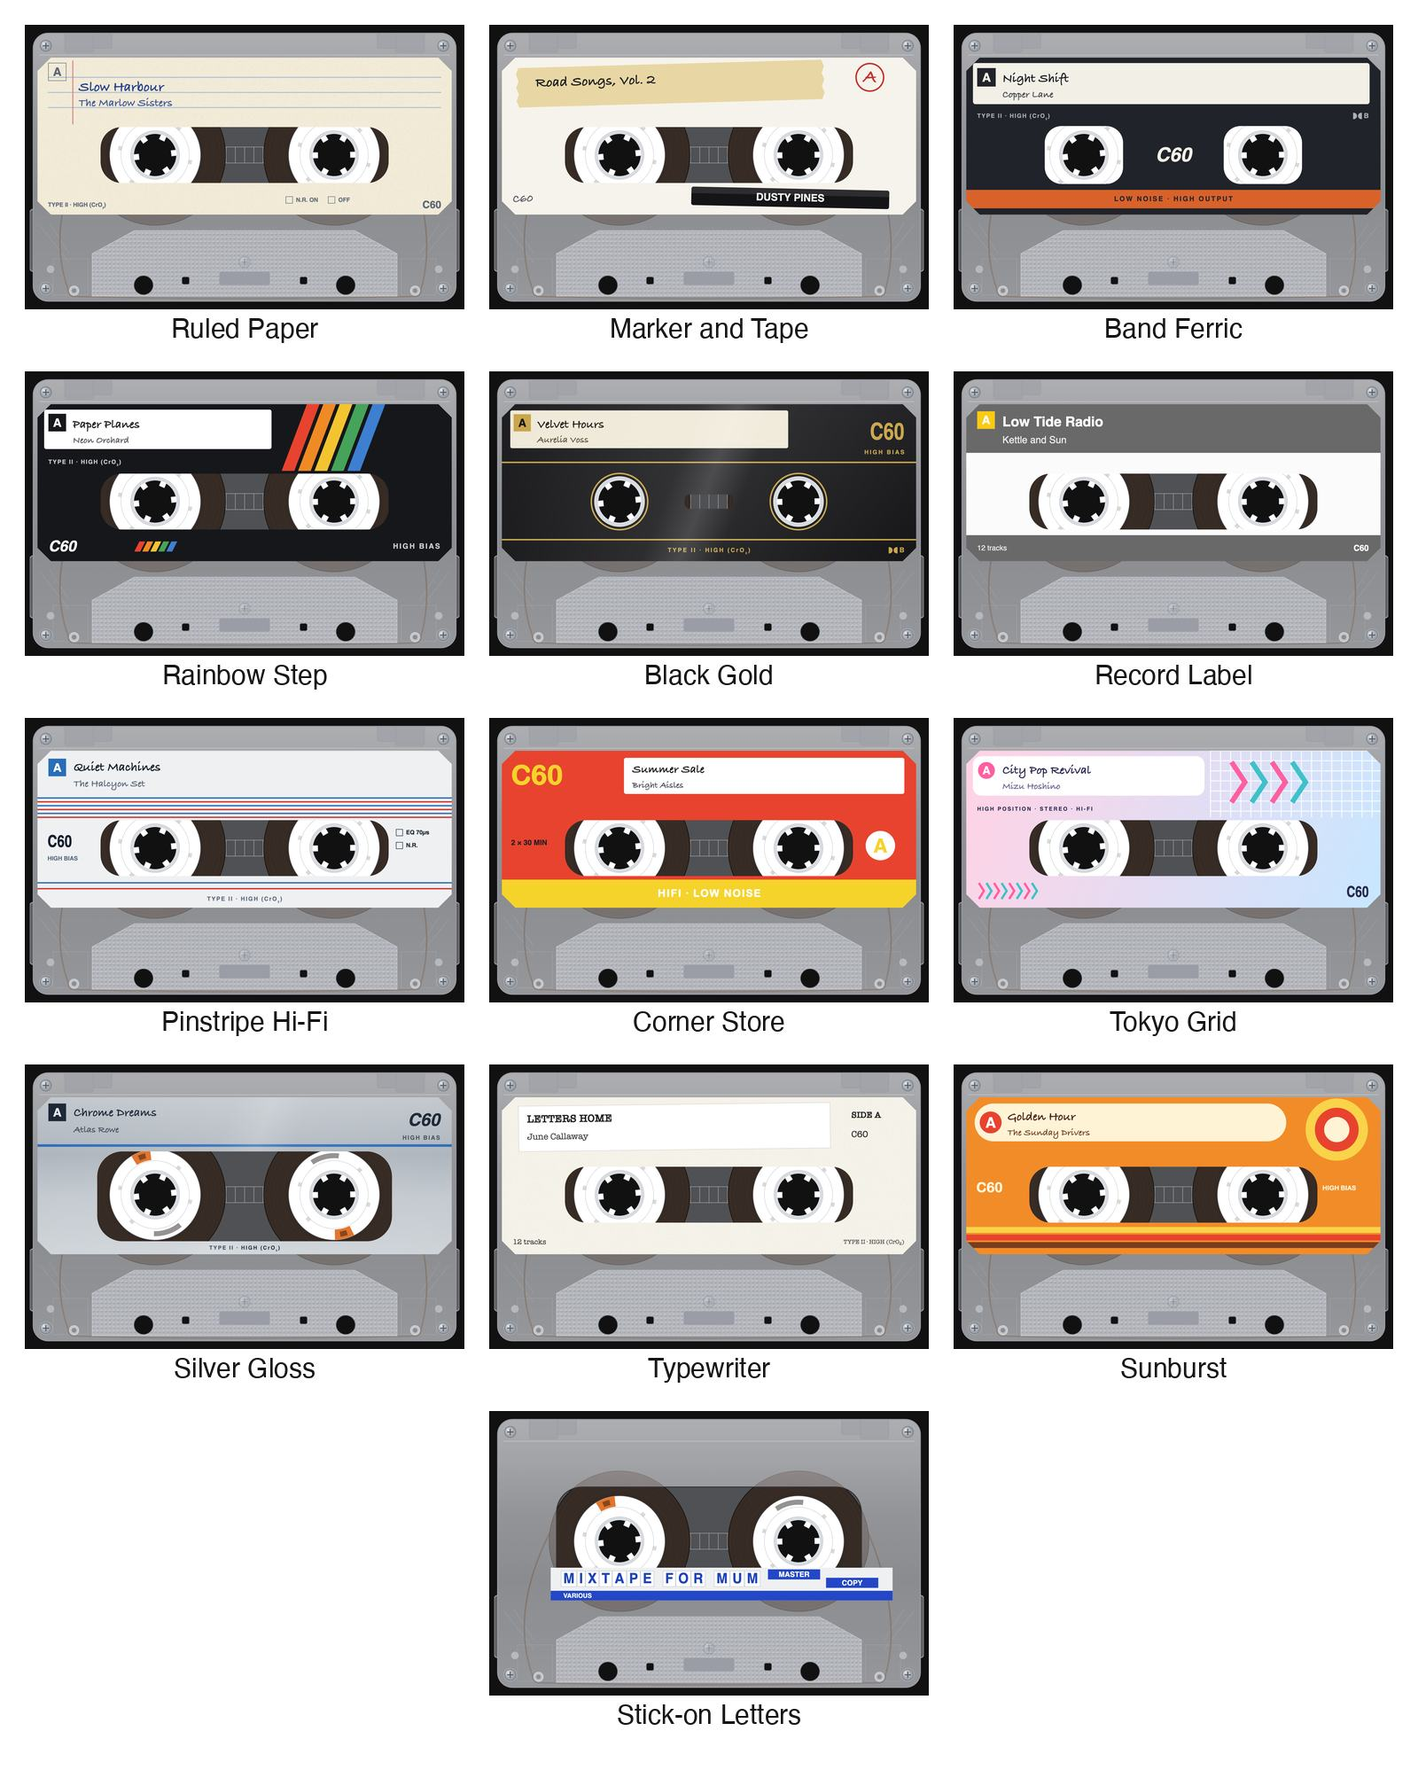
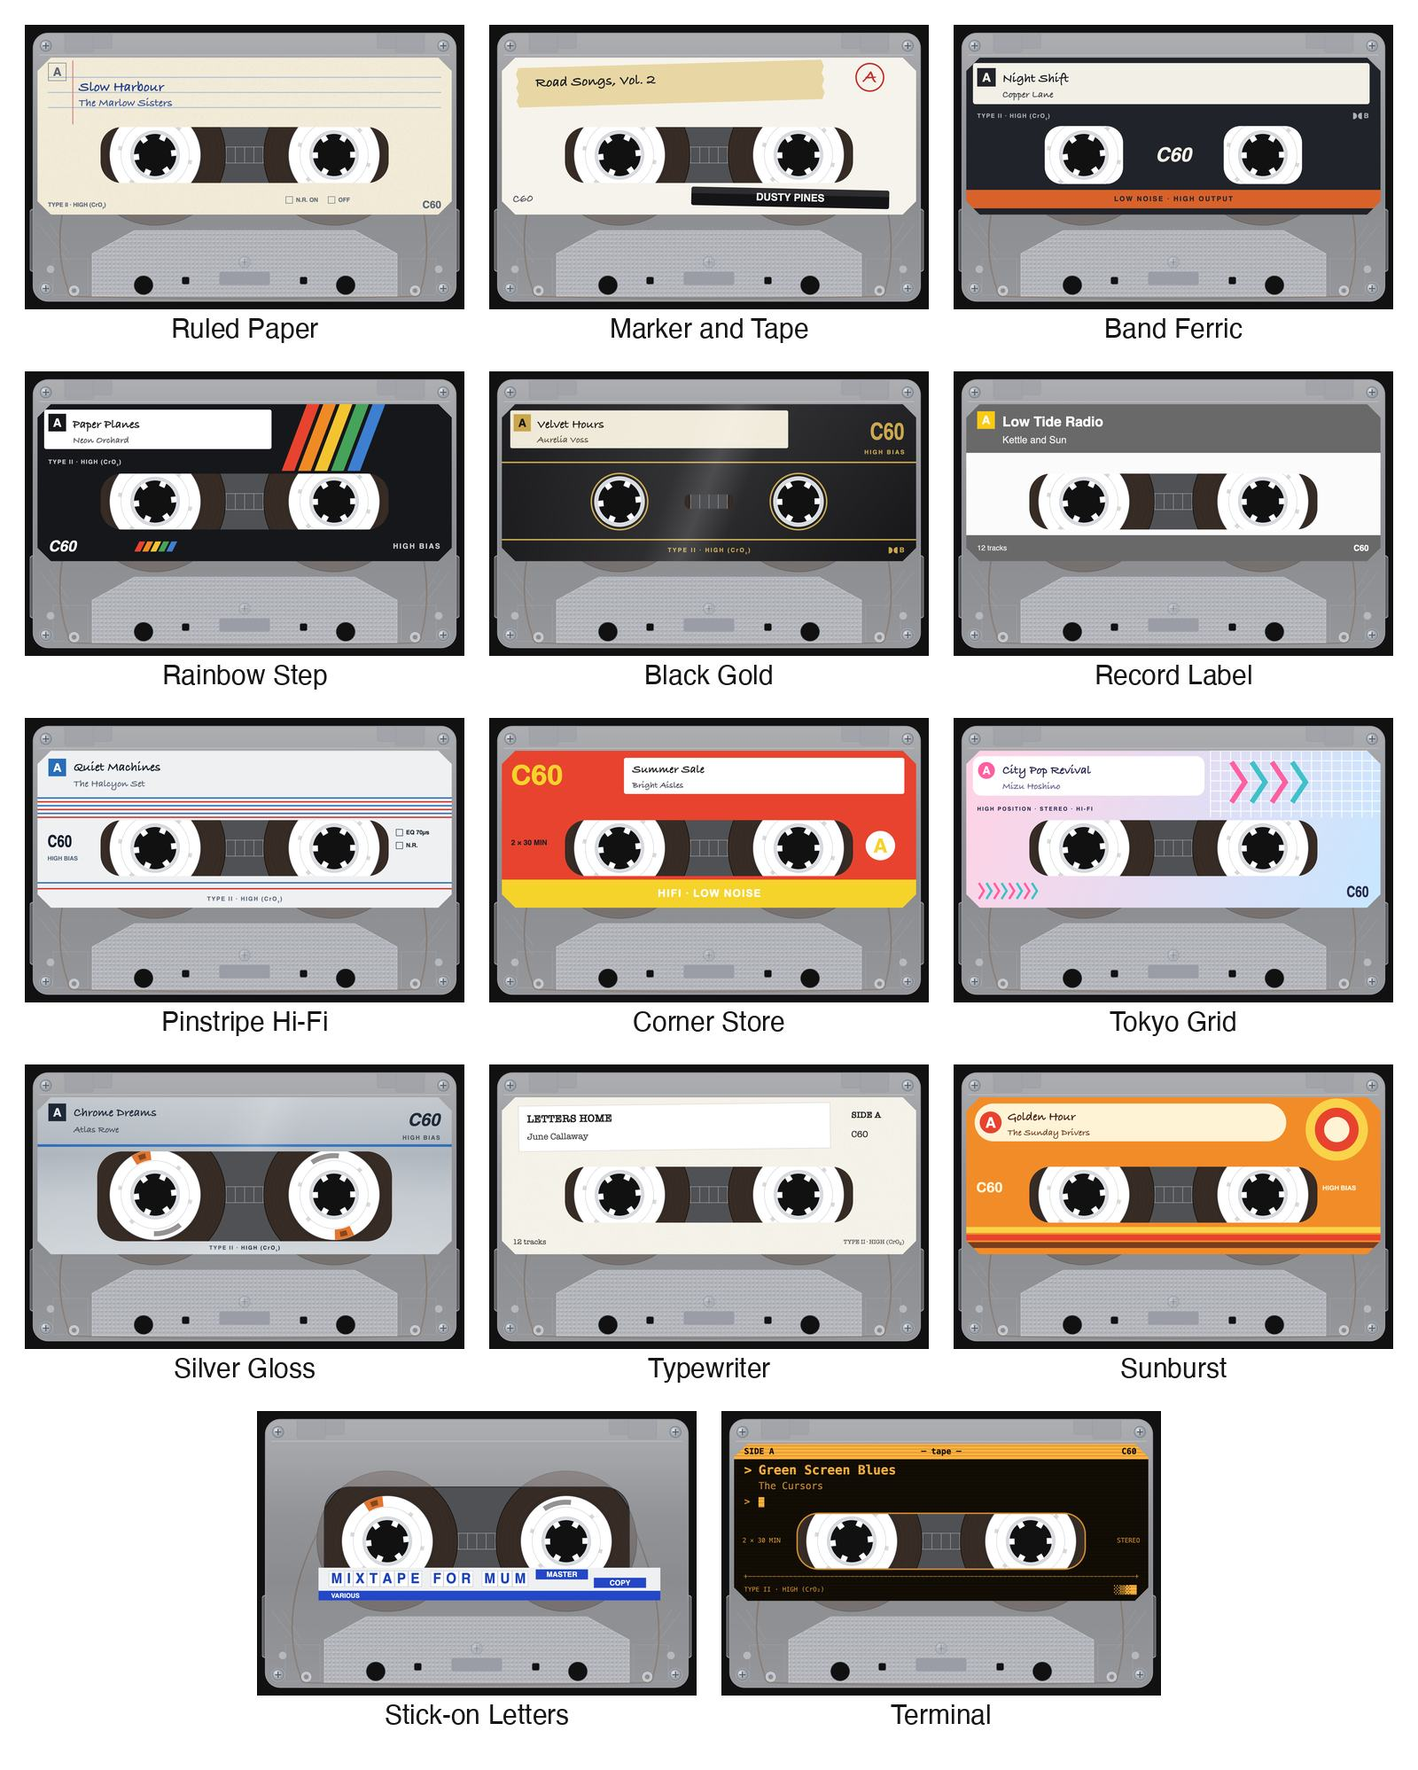
/tapedeck/: the help says why the tape stopped, and the Terminal label style

Changed region(s): [[0.1562, 0.7762, 0.8438, 0.9935]]

diff --git a/tapedeck/help.html b/tapedeck/help.html
@@ -158,7 +158,7 @@
     <dt>This Tape</dt>
     <dd>The list button in the player (or <kbd>Q</kbd>) shows the album that's playing, whole. Click a track to play it.</dd>
     <dt>Mixtapes</dt>
-    <dd>On Recent, <b>+ Mixtape</b> › New mixtape opens one. Name it, press + on the albums and tracks you want in the order you want them, then press Done. It plays as a tape of its own, sides and all. <b>A tape of what I've played</b> makes one from the last hour's tracks. Mixtapes are kept on the device they're made on.</dd>
+    <dd>On Recent, <b>+ Mixtape</b> › New mixtape opens one. Name it, press + on the albums and tracks you want in the order you want them, then press Done. To change the order later, drag a track by its ≡, or press ≡ for a menu of moves. It plays as a tape of its own, sides and all. <b>A tape of what I've played</b> makes one from the last hour's tracks. <b>A tape filled to a length…</b> picks C46, C60 or C90, then where from (the whole library, what's new in the last month, or the artist in the deck), and fills one side's worth of tracks without going over, mixing the artists, open for you to change. Mixtapes are kept in step between your devices, as the hearts are: through iCloud in the apps, and through your server if you have one. If you change the same mixtape on two devices, the later change is kept and the earlier one is lost. A mixtape you delete stays deleted on the others. A track one device doesn't have stays on the mixtape, out of sight there. A mixtape holds some hundreds of tracks, and all of them together a few thousand; past that Tape Deck says so and adds no more.</dd>
     <dt>Send this tape</dt>
     <dd>The arrow at the top of This Tape sends the tape as a link, from the share sheet or from Tape Deck in Messages, which sends it beside the stickers. Whoever opens it sees the cassette, its label in its hand and its tracks a side. The music doesn't go with it. Nothing about the tape is kept anywhere. It's all in the link.</dd>
     <dt>Handoff</dt>
@@ -168,7 +168,7 @@
     <dt>A chewed tape</dt>
     <dd>At the Chewed end of the tape condition the deck now and then eats the tape. A loop falls out over the page. Press Play or tap the tape to wind it back in and the music carries on where it stopped. On Apple Watch, turn the Digital Crown to wind it in with the pencil. Turn the condition down if you'd rather it didn't.</dd>
     <dt>With the screen off</dt>
-    <dd>Music keeps playing with the screen locked or the app in the background. The lock screen, Control Centre and headphone controls work. A call or an alarm stops the tape and it carries on afterwards. So does the car's announcement. Taking the headphones out or leaving the car stops it. The lock screen names each track's own artist, so a compilation's tracks say who each one is by.</dd>
+    <dd>Music keeps playing with the screen locked or the app in the background. The lock screen, Control Centre and headphone controls work. A call or an alarm stops the tape and it carries on afterwards. So does the car's announcement. The line under the title says why it stopped, paused for a call or while another app has the sound, and carrying on when it starts again. Taking the headphones out or leaving the car stops it. The lock screen names each track's own artist, so a compilation's tracks say who each one is by.</dd>
     <dt>AirPlay speakers</dt>
     <dd>The speakers button in the header (a jack plug) lists your AirPlay speakers. Choose one and the tape plays there. The cassette is drawn a little late to keep time with what you hear.</dd>
   </dl>
@@ -182,11 +182,11 @@
   <h2 id="cassette-h">The cassette</h2>
   <dl>
     <dt>Show it</dt>
-    <dd>The cassette button or <kbd>C</kbd>. The expand button or <kbd>Shift</kbd>+<kbd>F</kbd> makes it full screen. On an iPhone, turn the phone sideways. The button beside it puts in a tape at random. Hold it to take the cassette apart or put it back together.</dd>
+    <dd>The cassette button or <kbd>C</kbd>. The expand button or <kbd>Shift</kbd>+<kbd>F</kbd> makes it full screen. On an iPhone, turn the phone sideways. The padlock keeps the screen sideways until you press it again. Tape settings › Look › <b>Keep sideways while a tape plays</b> (Advanced) does the same for you while a tape plays, and lets go when it stops. The button beside it puts in a tape at random. Hold it to take the cassette apart or put it back together.</dd>
     <dt>Choosing a tape</dt>
     <dd>Tape settings › Look › <b>Shell</b> opens a grid of little cassettes. So does <b>Choose a tape…</b> at the top of the cassette's right-click menu. The grid holds the six shells, the eight classic tapes and 698 more, drawn from real cassettes of the 1970s to the 1990s. New ones can arrive without an update. Search by name or ID (<kbd>blue 90</kbd>, <kbd>t12</kbd>). Your favourites come first and the one in the deck is framed. <b>Random, by album</b> gives each album a tape of its own, the same one every time. A quick flick sideways across the label puts in the next tape. A slow drag still winds.</dd>
     <dt>Label styles and handwriting</dt>
-    <dd>Look › <b>Label style</b> prints the label in one of thirteen styles, the one the shell came with or Random. Look › <b>Handwriting</b> has eight hands: System, Biro, Felt tip, Marker, Neat, Scrawl, Capitals (block letters) and Typed. Random gives each album one of them except Typed, the same every time.</dd>
+    <dd>Look › <b>Label style</b> prints the label in one of fourteen styles, the one the shell came with or Random. Look › <b>Handwriting</b> has eight hands: System, Biro, Felt tip, Marker, Neat, Scrawl, Capitals (block letters) and Typed. Random gives each album one of them except Typed, the same every time.</dd>
     <dt>Taking it apart</dt>
     <dd>Look has a clear shell, the label off and a cutaway. <b>Exploded view</b> pulls the whole cassette into its layers. Apart, the layers tilt a little as you move the mouse or a pen over the cassette or tilt the phone. On an iPhone the first tap asks permission to read its tilt. It stays still under Reduce Motion.</dd>
     <dt>What a side holds</dt>
@@ -198,7 +198,7 @@
     <dt>VU meters</dt>
     <dd>Tape settings › Look › VU meters or a right-click on the cassette. Two rows of twelve lights in the transport beside the bar, one for each channel, green, then amber, then red as the tape gets louder. They show the tape's level, not the volume's. Apple Music's sound never reaches the deck, so they're off there.</dd>
     <dt>Tape settings</dt>
-    <dd>The gear in the header or on the cassette (or <kbd>G</kbd>) opens them. <b>Tape</b>: what a side holds, side length, auto-reverse, the keys and the leader. <b>Sound</b>: the tape's condition, its type and Dolby, the cue tone and motor wow. <b>Look</b>: the shell, the label style, the handwriting, the VU meters and the tint from the cover. <b>Library</b>: the music server, the audiobook server, the downloads and Reset, which puts the settings back to their defaults and keeps your favourites and your place. In Simple, only Look and Library are there.</dd>
+    <dd>The gear in the header or on the cassette (or <kbd>G</kbd>) opens them. <b>Tape</b>: what a side holds, side length, auto-reverse, the keys and the leader. <b>Sound</b>: the tape's condition, its type and Dolby, loudness matching (which evens out the level from one artist to the next, using the loudness figures in your music's tags, and leaves an album's own dynamics alone), the cue tone and motor wow. <b>Look</b>: the shell, the label style, the handwriting, the VU meters and the tint from the cover. <b>Library</b>: the music server, the audiobook server, the downloads and Reset, which puts the settings back to their defaults and keeps your favourites and your place. In Simple, only Look and Library are there.</dd>
   </dl>
   <figure class="pic narrow">
     <img src="img/meters.jpg" alt="The VU meters in the transport, lit to a loud passage: two rows of twelve lights, green, then amber, then a red one" width="380" height="130" loading="lazy">
@@ -209,8 +209,8 @@
     <figcaption>Tape settings, with its four tabs.</figcaption>
   </figure>
   <figure class="pic">
-    <img src="img/label-styles.jpg" alt="The thirteen label styles, each on a Classic shell with a made-up album and artist, named under it: Ruled Paper, Marker and Tape, Band Ferric, Rainbow Step, Black Gold, Record Label, Pinstripe Hi-Fi, Corner Store, Tokyo Grid, Silver Gloss, Typewriter, Sunburst and Stick-on Letters" width="1600" height="1997" loading="lazy">
-    <figcaption>The thirteen label styles, set in Look › Label style.</figcaption>
+    <img src="img/label-styles.jpg" alt="The fourteen label styles, each on a Classic shell with a made-up album and artist, named under it: Ruled Paper, Marker and Tape, Band Ferric, Rainbow Step, Black Gold, Record Label, Pinstripe Hi-Fi, Corner Store, Tokyo Grid, Silver Gloss, Typewriter, Sunburst, Stick-on Letters and Terminal" width="1600" height="1997" loading="lazy">
+    <figcaption>The fourteen label styles, set in Look › Label style.</figcaption>
   </figure>
   <figure class="pic">
     <img src="img/classic-tapes.jpg" alt="The eight classic tapes, named under each: Red Reels, Clear, Smoked, Metal, Grey Band, Reel, Home Ferric and Dutch C60, each with its own shell, windows, hubs and label" width="1600" height="1215" loading="lazy">
@@ -255,6 +255,8 @@
   <dl>
     <dt>Connecting</dt>
     <dd>Put your Audiobookshelf server's address and an API key in tape settings › Library and Audiobooks appears in the menu of the source button in the header, and Podcasts too if the server has any. Each swaps the music for that list. Music Library swaps them back.</dd>
+    <dt>In a browser</dt>
+    <dd>Once the app has connected to your Audiobookshelf server, the page on your own Tape Deck Server offers the same books to you, signed in to its network as the owner, with no key to type. They play in the page and your place stays on the server. Nothing is downloaded, so they need the server in reach, and a guest doesn't see them.</dd>
     <dt>Playing a book</dt>
     <dd>A book is a tape and its chapters are the tracks. It plays while it downloads, so a book or episode you start hours in plays within seconds, not after the whole file. Skip past what has arrived and the tape holds taut, saying how much is still to come. Play takes it up where you left off, in this app or Audiobookshelf's own. Entering the books puts the one you played last in the deck, ready for Play.</dd>
     <dt>Podcasts</dt>
@@ -322,7 +324,7 @@
   <h2 id="mac-h">On the Mac</h2>
   <dl>
     <dt>Menus</dt>
-    <dd>Controls: Play and Stop (<kbd>Space</kbd> in the window), Turn Tape Over <kbd>⌘D</kbd>, Next and Previous <kbd>⌘→</kbd> <kbd>⌘←</kbd>, Eject <kbd>⌘E</kbd>, AirPlay…. View: the tabs <kbd>⌘1</kbd> to <kbd>⌘4</kbd>, Show Cassette <kbd>⌘K</kbd>, Full-Screen Cassette <kbd>⇧⌘F</kbd>, Mini Player <kbd>⌥⌘M</kbd>, This Tape <kbd>⌥⌘U</kbd>, Downloaded Only <kbd>⌘L</kbd>, Search Library <kbd>⌘F</kbd>. Tape and Look hold the tape settings as menus.</dd>
+    <dd>Controls: Play and Stop (<kbd>Space</kbd> in the window), Turn Tape Over <kbd>⌘D</kbd>, Next and Previous <kbd>⌘→</kbd> <kbd>⌘←</kbd>, Eject <kbd>⌘E</kbd>, AirPlay…. View: the tabs <kbd>⌘1</kbd> to <kbd>⌘4</kbd>, Show Cassette <kbd>⌘K</kbd>, Cassette Fills the Window <kbd>⇧⌘F</kbd>, Mini Player <kbd>⌥⌘M</kbd>, This Tape <kbd>⌥⌘U</kbd>, Downloaded Only <kbd>⌘L</kbd>, Search Library <kbd>⌘F</kbd>. Tape and Look hold the tape settings as menus.</dd>
     <dt>Mini player</dt>
     <dd>A small window that stays above the others and shows just the cassette. Move the mouse over it for the controls.</dd>
     <dt>Right-click</dt>

diff --git a/tapedeck/js/cassette.js b/tapedeck/js/cassette.js
@@ -466,7 +466,7 @@ window.ABCassette = (function () {
   // formulation's line), '@kind' ('TYPE II'), '@bias', '@side', '@sideword',
   // '@sides' ('2 × 45 MIN'), '@info0' and '@info1' (the spec block's lines).
   // Faces: 'hand' (the handwriting setting), 'marker', 'sans', 'cond',
-  // 'italic', 'serif', 'mono' (a typewriter's), 'round'. A text part can have an outline (stroke, sw) and
+  // 'italic', 'serif', 'mono' (a typewriter's), 'term' (a terminal's), 'round'. A text part can have an outline (stroke, sw) and
   // fill: 'none'; a path part is any outline as an SVG path's d in millimetres; a band can stop short (x0,
   // x1); any colour can be a gradient ({grad, stops}). A family can have glass (a tint over its windows),
   // a bezel (a frame round them) and parts marked above, drawn over the glass; win can be a list of shapes.
@@ -665,6 +665,31 @@ window.ABCassette = (function () {
         { k: 'text', t: 'COPY', x: 84.2, y: 38.95, w: 11, size: 1.7, font: 'sans', weight: 600, ink: '#ffffff', align: 'center' },
         { k: 'text', t: '@artist', x: 15.6, y: 42, w: 76, size: 1.5, font: 'sans', weight: 700, ink: '#ffffff', upper: true }
       ] },
+    // A nod to tape, the terminal player (#638): a dark screen in green or amber phosphor, one per album, an
+    // inverse-video title bar, a prompt and a block cursor, the window boxed as the terminal boxes its reels,
+    // shade blocks, and scan lines over the lot. The rule and the blocks are centred or anchored at one end,
+    // so a monospace a little wider or narrower than Menlo's moves nothing into anything else
+    'Terminal': { win: 'rect', pals: [
+        { face: '#0a110c', ink: '#6dff8e', dim: '#3dbf5f' },
+        { face: '#120d05', ink: '#ffb23e', dim: '#c98a2c' }],
+      bezel: { stroke: '$dim', w: 0.35 },
+      parts: [
+        { k: 'band', y: 5.8, h: 3.7, fill: '$ink' },
+        { k: 'text', t: '@sideword', x: 3.4, y: 7.75, w: 20, size: 2.0, font: 'term', weight: 700, ink: '$face' },
+        { k: 'text', t: '─ tape ─', x: 50.2, y: 7.75, w: 24, size: 2.0, font: 'term', weight: 700, ink: '$face', align: 'center' },
+        { k: 'text', t: '@tape', x: 96.6, y: 7.75, w: 16, size: 2.0, font: 'term', weight: 700, ink: '$face', align: 'right' },
+        { k: 'text', t: '>', x: 3.4, y: 12.3, w: 3, size: 3.0, font: 'term', weight: 700, ink: '$ink' },
+        { k: 'text', t: '@title', x: 6.8, y: 12.3, w: 89, size: 3.0, font: 'term', weight: 600, ink: '$ink' },
+        { k: 'text', t: '@artist', x: 6.8, y: 16.0, w: 89, size: 2.3, font: 'term', ink: '$dim' },
+        { k: 'text', t: '>', x: 3.4, y: 19.7, w: 3, size: 2.3, font: 'term', weight: 700, ink: '$dim' },
+        { k: 'rect', x: 6.8, y: 18.5, w: 1.4, h: 2.4, fill: '$ink' },
+        { k: 'text', t: '@sides', x: 3.0, y: 28.9, w: 12, size: 1.5, font: 'term', ink: '$dim' },
+        { k: 'text', t: 'STEREO', x: 97.4, y: 28.9, w: 12, size: 1.5, font: 'term', ink: '$dim', align: 'right' },
+        { k: 'text', t: '+' + new Array(95).join('-') + '+', x: 50.2, y: 37.5, w: 95, size: 1.6, font: 'term', ink: '$dim', align: 'center' },
+        { k: 'text', t: '@type', x: 3.4, y: 40.6, w: 76, size: 1.5, font: 'term', ink: '$dim' },
+        { k: 'text', t: '░▒▓█', x: 96.6, y: 40.6, w: 9, size: 2.2, font: 'term', ink: '$ink', align: 'right' },
+        { k: 'pins', y0: 6.2, y1: 43.0, n: 47, w: 0.16, fills: ['rgba(0,0,0,0.22)'] }
+      ] },
     // The Dutch C60's own (own: laid out round its shell's boss, so not offered in Label style): the
     // cream boss round the hubs, a red horseshoe from bars at either side, a ruled index box, an outlined C·60
     'Red Horseshoe': { own: true, win: 'holes', pal: { face: '#e5dac2', ink: '#2a2a2a', dim: '#6b655a', a1: '#d8303a' }, grain: 0.5,
@@ -716,6 +741,7 @@ window.ABCassette = (function () {
     sans: UI_FONT, cond: UI_FONT, italic: UI_FONT,
     serif: 'Georgia, "Times New Roman", serif',
     mono: '"American Typewriter", "Courier New", Courier, monospace',
+    term: 'Menlo, "SF Mono", ui-monospace, Monaco, Consolas, "DejaVu Sans Mono", "Courier New", monospace',
     round: '"Arial Rounded MT Bold", "SF Pro Rounded", ui-rounded, ' + UI_FONT,
     // a maker's heavy wordmark (Avenir Next's Heavy is on every Apple device), and an italic serif
     heavy: '"Avenir Next", "Arial Black", ' + UI_FONT,

diff --git a/tapedeck/embed/tapedeck.js b/tapedeck/embed/tapedeck.js
@@ -473,6 +473,27 @@ parts: [
 { k: 'text', t: 'COPY', x: 84.2, y: 38.95, w: 11, size: 1.7, font: 'sans', weight: 600, ink: '#ffffff', align: 'center' },
 { k: 'text', t: '@artist', x: 15.6, y: 42, w: 76, size: 1.5, font: 'sans', weight: 700, ink: '#ffffff', upper: true }
 ] },
+'Terminal': { win: 'rect', pals: [
+{ face: '#0a110c', ink: '#6dff8e', dim: '#3dbf5f' },
+{ face: '#120d05', ink: '#ffb23e', dim: '#c98a2c' }],
+bezel: { stroke: '$dim', w: 0.35 },
+parts: [
+{ k: 'band', y: 5.8, h: 3.7, fill: '$ink' },
+{ k: 'text', t: '@sideword', x: 3.4, y: 7.75, w: 20, size: 2.0, font: 'term', weight: 700, ink: '$face' },
+{ k: 'text', t: '─ tape ─', x: 50.2, y: 7.75, w: 24, size: 2.0, font: 'term', weight: 700, ink: '$face', align: 'center' },
+{ k: 'text', t: '@tape', x: 96.6, y: 7.75, w: 16, size: 2.0, font: 'term', weight: 700, ink: '$face', align: 'right' },
+{ k: 'text', t: '>', x: 3.4, y: 12.3, w: 3, size: 3.0, font: 'term', weight: 700, ink: '$ink' },
+{ k: 'text', t: '@title', x: 6.8, y: 12.3, w: 89, size: 3.0, font: 'term', weight: 600, ink: '$ink' },
+{ k: 'text', t: '@artist', x: 6.8, y: 16.0, w: 89, size: 2.3, font: 'term', ink: '$dim' },
+{ k: 'text', t: '>', x: 3.4, y: 19.7, w: 3, size: 2.3, font: 'term', weight: 700, ink: '$dim' },
+{ k: 'rect', x: 6.8, y: 18.5, w: 1.4, h: 2.4, fill: '$ink' },
+{ k: 'text', t: '@sides', x: 3.0, y: 28.9, w: 12, size: 1.5, font: 'term', ink: '$dim' },
+{ k: 'text', t: 'STEREO', x: 97.4, y: 28.9, w: 12, size: 1.5, font: 'term', ink: '$dim', align: 'right' },
+{ k: 'text', t: '+' + new Array(95).join('-') + '+', x: 50.2, y: 37.5, w: 95, size: 1.6, font: 'term', ink: '$dim', align: 'center' },
+{ k: 'text', t: '@type', x: 3.4, y: 40.6, w: 76, size: 1.5, font: 'term', ink: '$dim' },
+{ k: 'text', t: '░▒▓█', x: 96.6, y: 40.6, w: 9, size: 2.2, font: 'term', ink: '$ink', align: 'right' },
+{ k: 'pins', y0: 6.2, y1: 43.0, n: 47, w: 0.16, fills: ['rgba(0,0,0,0.22)'] }
+] },
 'Red Horseshoe': { own: true, win: 'holes', pal: { face: '#e5dac2', ink: '#2a2a2a', dim: '#6b655a', a1: '#d8303a' }, grain: 0.5,
 parts: [
 { k: 'rect', x: 21.7, y: 19.7, w: 57.9, h: 16.5, r: 8.25, fill: '#dcd8ca', stroke: '#b9b5a6' },
@@ -516,6 +537,7 @@ var FACES = {
 sans: UI_FONT, cond: UI_FONT, italic: UI_FONT,
 serif: 'Georgia, "Times New Roman", serif',
 mono: '"American Typewriter", "Courier New", Courier, monospace',
+term: 'Menlo, "SF Mono", ui-monospace, Monaco, Consolas, "DejaVu Sans Mono", "Courier New", monospace',
 round: '"Arial Rounded MT Bold", "SF Pro Rounded", ui-rounded, ' + UI_FONT,
 heavy: '"Avenir Next", "Arial Black", ' + UI_FONT,
 iserif: 'Georgia, "Times New Roman", serif'
